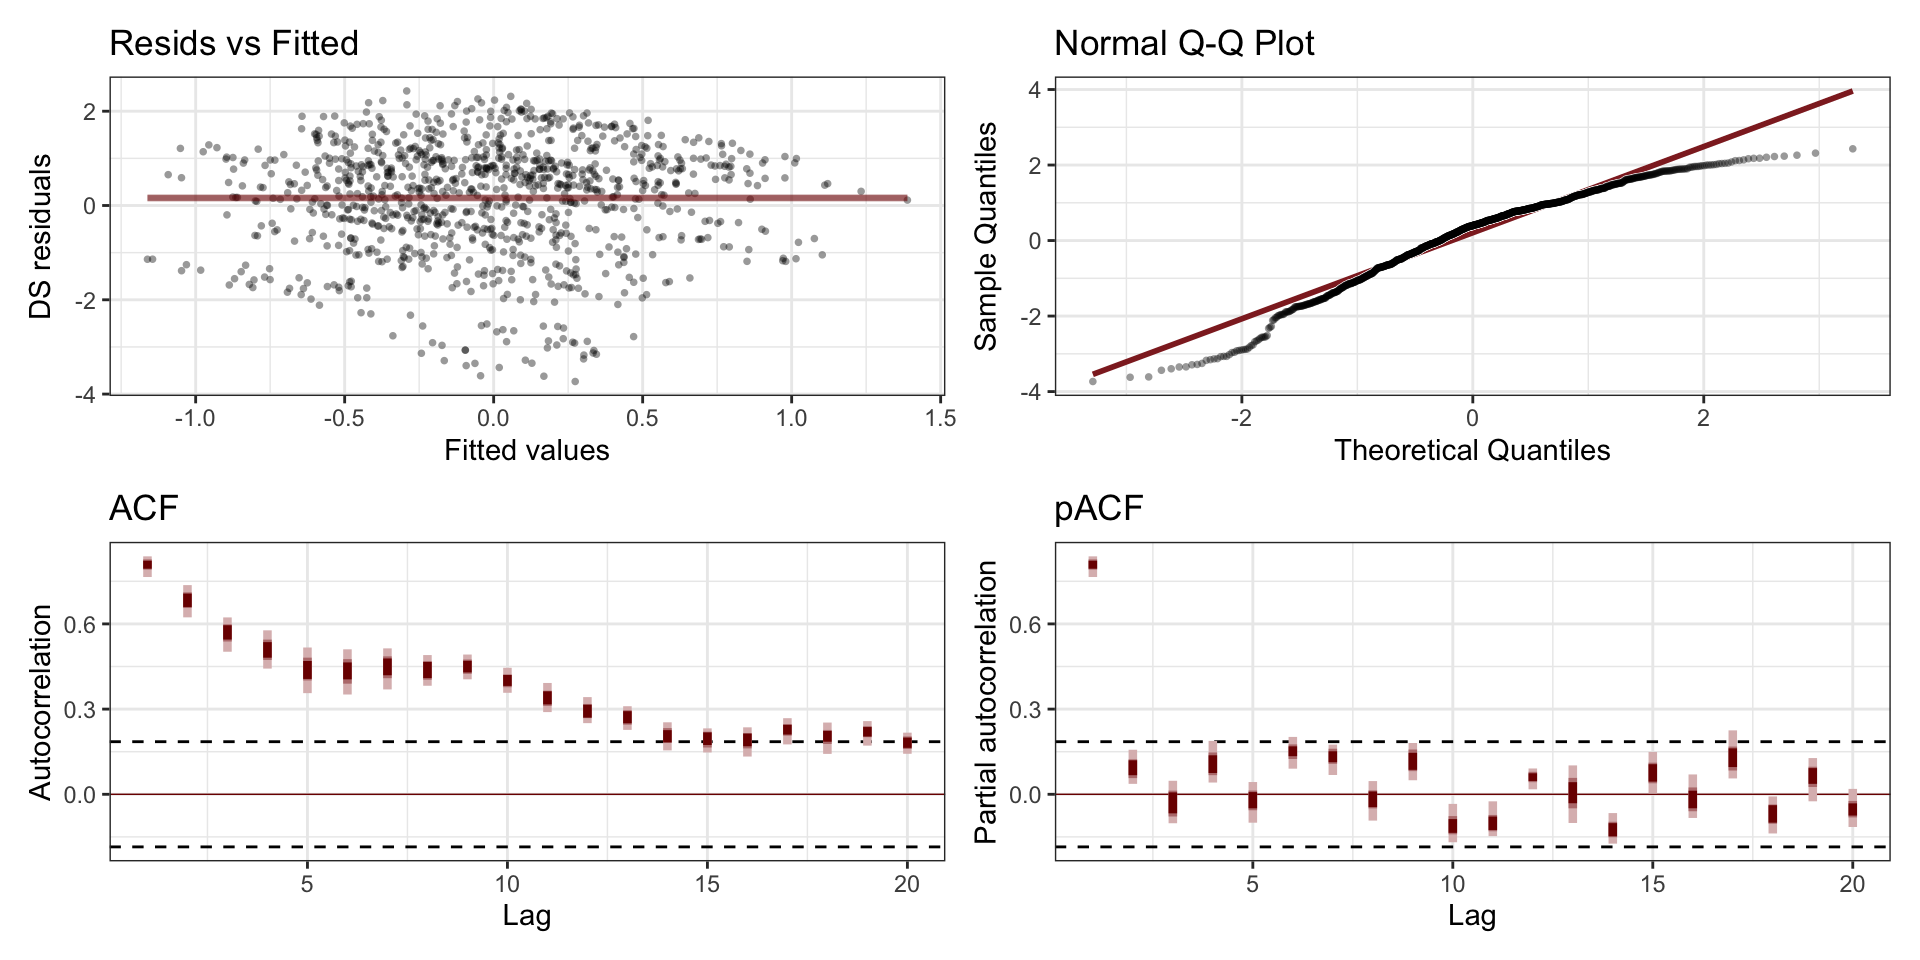
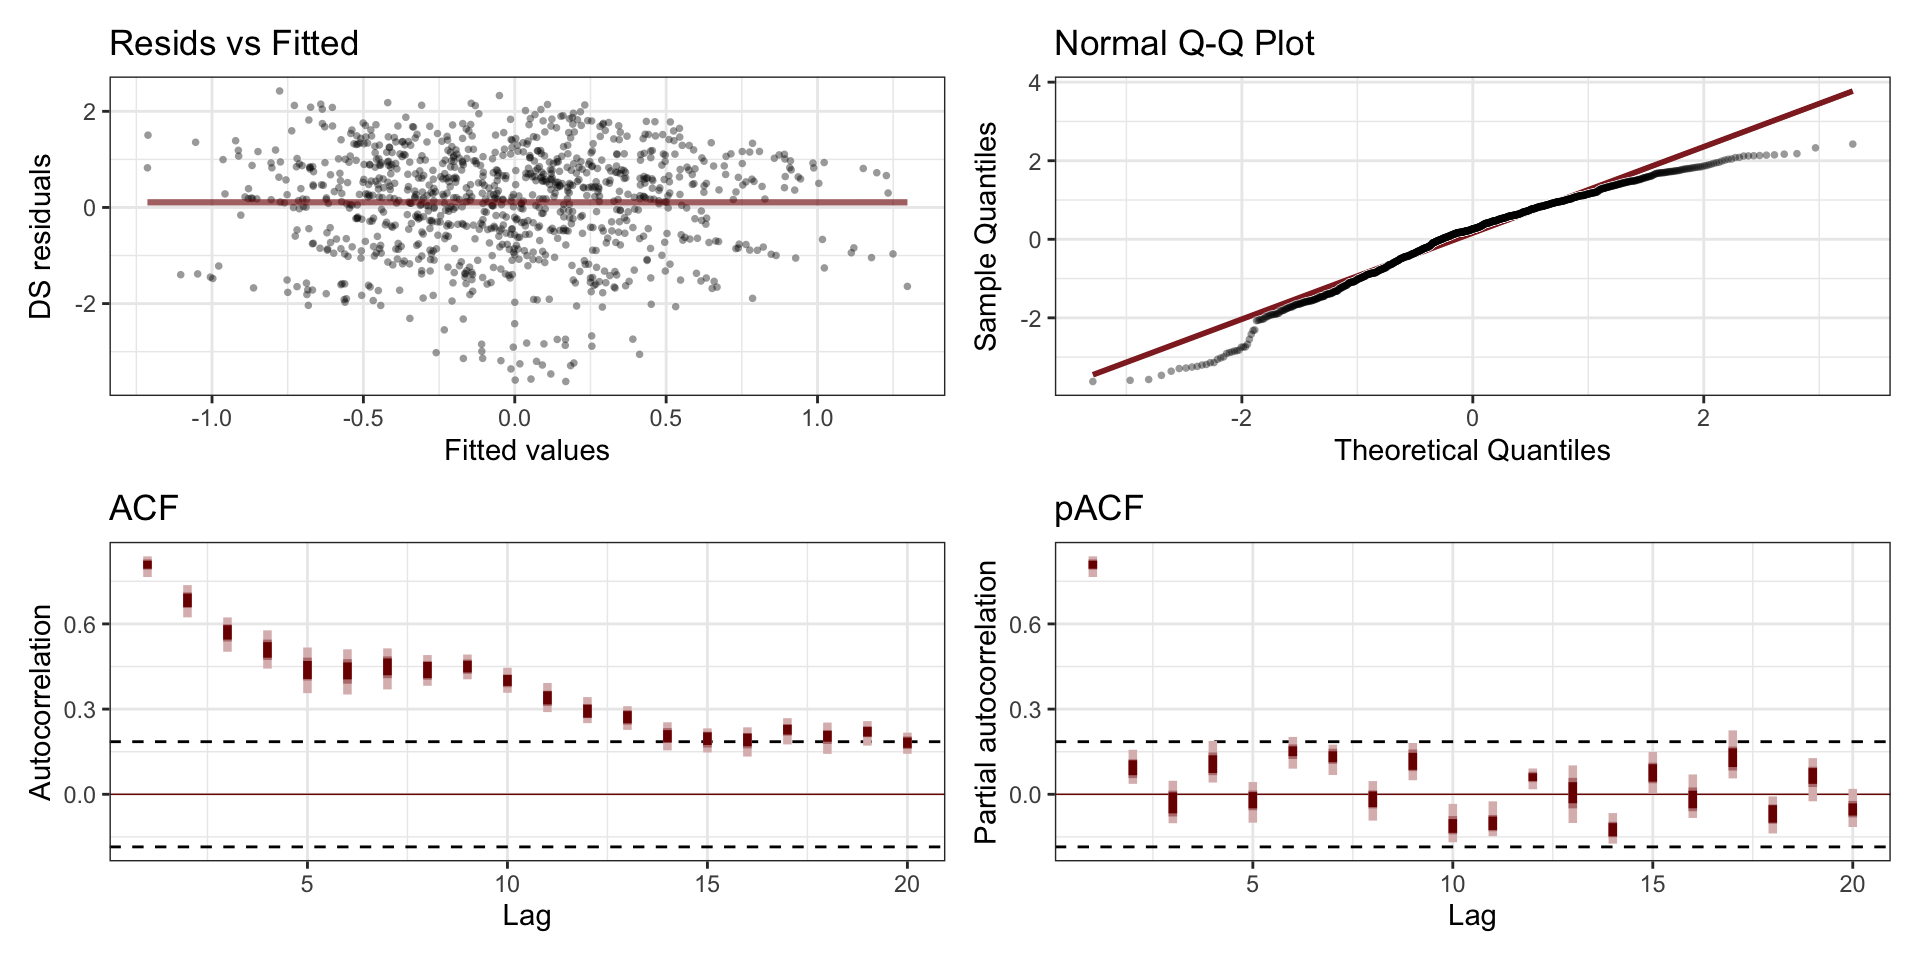
Built site for gh-pages

diff --git a/hgam-slides.html b/hgam-slides.html
@@ -460,6 +460,9 @@
 </ul>
 
 <img data-src="taxo_hier.jpg" class="r-stretch"><p>We find often find that nature tends to “organize” itself in hierarchies.</p>
+</section>
+<section class="slide level2">
+
 <h3 id="what-is-a-hierarchy-in-data">What is a hierarchy in data?</h3>
 <p>We find hierarchies in data when a data item is linked to another data item by a hierarchical relationship, where we would qualify one data item to be the “parent” of the other.</p>
 <div class="cell">
@@ -470,14 +473,8 @@
 <li class="fragment"><p>“month” is nested in “year”</p></li>
 <li class="fragment"><p>“series” = grouping variable with 5 levels</p></li>
 </ul>
-<h3 id="what-is-a-hierarchical-model-hm">What is a hierarchical model (HM)?</h3>
-<ul>
-<li class="fragment"><p>Hierarchical generalised linear models, or Hierarchical models (HM), are used to estimate linear relationships between predictors and a response variable, but impose a structure where the predictors are organized into groups.</p></li>
-<li class="fragment"><p>The relationship between predictors dans response variable may differ across groups.</p></li>
-</ul>
-<p>Pedersen et al.&nbsp;(2019)</p>
 </section>
-<section id="what-is-a-hierarchy-output" class="slide level2 output-location-slide"><h2>What is a hierarchy?</h2><div class="cell output-location-slide">
+<section id="" class="slide level2 output-location-slide"><div class="cell output-location-slide">
 <div class="cell-output cell-output-stdout">
 <pre><code># A tibble: 6 × 6
    year month       y series       temp  time
@@ -489,7 +486,16 @@
 5  1965     1 -0.491  Other.algae -1.23     1
 6  1965     2 NA      Greens      -1.32     2</code></pre>
 </div>
-</div></section><section id="now-that-we-have-seen-gams-and-hms-what-are-hgams" class="slide level2">
+</div></section><section class="slide level2">
+
+<h3 id="what-is-a-hierarchical-model-hm">What is a hierarchical model (HM)?</h3>
+<ul>
+<li class="fragment"><p>Hierarchical generalised linear models, or Hierarchical models (HM), are used to estimate linear relationships between predictors and a response variable, but impose a structure where the predictors are organized into groups.</p></li>
+<li class="fragment"><p>The relationship between predictors dans response variable may differ across groups.</p></li>
+</ul>
+<p>Pedersen et al.&nbsp;(2019)</p>
+</section>
+<section id="now-that-we-have-seen-gams-and-hms-what-are-hgams" class="slide level2">
 <h2>Now that we have seen GAMs and HMs… What are HGAMs?</h2>
 </section>
 <section id="hgam" class="slide level2">
@@ -498,6 +504,9 @@
 <li class="fragment"><p>A hierarchical generalized additive model, or HGAM, is the integration of GAMS and HMs into one model. HGAMs enable us to estimate nonlinear relationships between predictors and a response variable when at least one of the predictors is a grouping variable.</p></li>
 <li class="fragment"><p>We’ve previously identified hierarchies in the data; now, how do we incorporate them into our models? We represent these hierarchies using smooth functions in our equations.</p></li>
 </ul>
+</section>
+<section class="slide level2">
+
 <h3 id="hgam-equation-with-mgcv">HGAM equation with mgcv</h3>
 <div class="cell">
 <div class="sourceCode cell-code" id="cb14"><pre class="sourceCode numberSource r number-lines code-with-copy"><code class="sourceCode r"><span id="cb14-1"><a href=""></a><span class="co"># gam(y ~ s(time, k = k_number_time_steps, bs = "cs") +</span></span>
@@ -508,11 +517,19 @@
 </div>
 
 <p>Let’s break it down.</p>
+</section>
+<section id="" class="slide level2 output-location-slide"><div class="cell output-location-slide">
+
+</div></section><section class="slide level2">
+
 <h3 id="smooth-function">Smooth function</h3>
 <p>s(time, k = k_number_time_steps, bs = “cs”)</p>
 <p>s() = smooth function</p>
 <p>k = number of knots ; can be the number of time steps or any fraction of that number</p>
 <p>bs = type of basis functions</p>
+</section>
+<section class="slide level2">
+
 <h3 id="types-of-basis-functions">Types of basis functions</h3>
 <ul>
 <li class="fragment"><p>Thin plate regression splines (“tp” in mgcv): General purpose spline basis. If you do not have phenology in your data and your smooth only has one covariate = probably this type of basis functions. To learn more –&gt; <a href="https://rss.onlinelibrary.wiley.com/doi/abs/10.1111/1467-9868.00374">Wood (2003)</a></p></li>
@@ -520,14 +537,18 @@
 <li class="fragment"><p>Cyclic cubic regression splines (“cs”): Useful to fit models with cyclic components or phenology.</p></li>
 <li class="fragment"><p>Factor smoother (“fs”): Produces a smooth curve for each level of a single factor. This means that a model can be constructed with a <strong>main effect plus factor level smooth deviations from that effect</strong>.</p></li>
 </ul>
+</section>
+<section class="slide level2">
+
 <h4 id="factor-smoother">Factor smoother</h4>
 <ul>
 <li class="fragment"><p>Global trend across all levels of a grouping variable</p></li>
 <li class="fragment"><p>Species-specific trends sharing the same wiggliness, but differing in shapes</p></li>
 </ul>
-</section><section id="hgam-output" class="slide level2 output-location-slide"><h2>HGAM</h2><div class="cell output-location-slide">
+</section>
+<section class="slide level2">
 
-</div></section></section>
+</section></section>
 <section>
 <section id="part-2-dgams" class="title-slide slide level1 center" data-background-image="waves2.png">
 <h1>Part 2: DGAMs</h1>

diff --git a/index.html b/index.html
@@ -460,6 +460,9 @@
 </ul>
 
 <img data-src="taxo_hier.jpg" class="r-stretch"><p>We find often find that nature tends to “organize” itself in hierarchies.</p>
+</section>
+<section class="slide level2">
+
 <h3 id="what-is-a-hierarchy-in-data">What is a hierarchy in data?</h3>
 <p>We find hierarchies in data when a data item is linked to another data item by a hierarchical relationship, where we would qualify one data item to be the “parent” of the other.</p>
 <div class="cell">
@@ -470,14 +473,8 @@
 <li class="fragment"><p>“month” is nested in “year”</p></li>
 <li class="fragment"><p>“series” = grouping variable with 5 levels</p></li>
 </ul>
-<h3 id="what-is-a-hierarchical-model-hm">What is a hierarchical model (HM)?</h3>
-<ul>
-<li class="fragment"><p>Hierarchical generalised linear models, or Hierarchical models (HM), are used to estimate linear relationships between predictors and a response variable, but impose a structure where the predictors are organized into groups.</p></li>
-<li class="fragment"><p>The relationship between predictors dans response variable may differ across groups.</p></li>
-</ul>
-<p>Pedersen et al.&nbsp;(2019)</p>
 </section>
-<section id="what-is-a-hierarchy-output" class="slide level2 output-location-slide"><h2>What is a hierarchy?</h2><div class="cell output-location-slide">
+<section id="" class="slide level2 output-location-slide"><div class="cell output-location-slide">
 <div class="cell-output cell-output-stdout">
 <pre><code># A tibble: 6 × 6
    year month       y series       temp  time
@@ -489,7 +486,16 @@
 5  1965     1 -0.491  Other.algae -1.23     1
 6  1965     2 NA      Greens      -1.32     2</code></pre>
 </div>
-</div></section><section id="now-that-we-have-seen-gams-and-hms-what-are-hgams" class="slide level2">
+</div></section><section class="slide level2">
+
+<h3 id="what-is-a-hierarchical-model-hm">What is a hierarchical model (HM)?</h3>
+<ul>
+<li class="fragment"><p>Hierarchical generalised linear models, or Hierarchical models (HM), are used to estimate linear relationships between predictors and a response variable, but impose a structure where the predictors are organized into groups.</p></li>
+<li class="fragment"><p>The relationship between predictors dans response variable may differ across groups.</p></li>
+</ul>
+<p>Pedersen et al.&nbsp;(2019)</p>
+</section>
+<section id="now-that-we-have-seen-gams-and-hms-what-are-hgams" class="slide level2">
 <h2>Now that we have seen GAMs and HMs… What are HGAMs?</h2>
 </section>
 <section id="hgam" class="slide level2">
@@ -498,6 +504,9 @@
 <li class="fragment"><p>A hierarchical generalized additive model, or HGAM, is the integration of GAMS and HMs into one model. HGAMs enable us to estimate nonlinear relationships between predictors and a response variable when at least one of the predictors is a grouping variable.</p></li>
 <li class="fragment"><p>We’ve previously identified hierarchies in the data; now, how do we incorporate them into our models? We represent these hierarchies using smooth functions in our equations.</p></li>
 </ul>
+</section>
+<section class="slide level2">
+
 <h3 id="hgam-equation-with-mgcv">HGAM equation with mgcv</h3>
 <div class="cell">
 <div class="sourceCode cell-code" id="cb14"><pre class="sourceCode numberSource r number-lines code-with-copy"><code class="sourceCode r"><span id="cb14-1"><a href=""></a><span class="co"># gam(y ~ s(time, k = k_number_time_steps, bs = "cs") +</span></span>
@@ -508,11 +517,19 @@
 </div>
 
 <p>Let’s break it down.</p>
+</section>
+<section id="" class="slide level2 output-location-slide"><div class="cell output-location-slide">
+
+</div></section><section class="slide level2">
+
 <h3 id="smooth-function">Smooth function</h3>
 <p>s(time, k = k_number_time_steps, bs = “cs”)</p>
 <p>s() = smooth function</p>
 <p>k = number of knots ; can be the number of time steps or any fraction of that number</p>
 <p>bs = type of basis functions</p>
+</section>
+<section class="slide level2">
+
 <h3 id="types-of-basis-functions">Types of basis functions</h3>
 <ul>
 <li class="fragment"><p>Thin plate regression splines (“tp” in mgcv): General purpose spline basis. If you do not have phenology in your data and your smooth only has one covariate = probably this type of basis functions. To learn more –&gt; <a href="https://rss.onlinelibrary.wiley.com/doi/abs/10.1111/1467-9868.00374">Wood (2003)</a></p></li>
@@ -520,14 +537,18 @@
 <li class="fragment"><p>Cyclic cubic regression splines (“cs”): Useful to fit models with cyclic components or phenology.</p></li>
 <li class="fragment"><p>Factor smoother (“fs”): Produces a smooth curve for each level of a single factor. This means that a model can be constructed with a <strong>main effect plus factor level smooth deviations from that effect</strong>.</p></li>
 </ul>
+</section>
+<section class="slide level2">
+
 <h4 id="factor-smoother">Factor smoother</h4>
 <ul>
 <li class="fragment"><p>Global trend across all levels of a grouping variable</p></li>
 <li class="fragment"><p>Species-specific trends sharing the same wiggliness, but differing in shapes</p></li>
 </ul>
-</section><section id="hgam-output" class="slide level2 output-location-slide"><h2>HGAM</h2><div class="cell output-location-slide">
+</section>
+<section class="slide level2">
 
-</div></section></section>
+</section></section>
 <section>
 <section id="part-2-dgams" class="title-slide slide level1 center" data-background-image="waves2.png">
 <h1>Part 2: DGAMs</h1>
